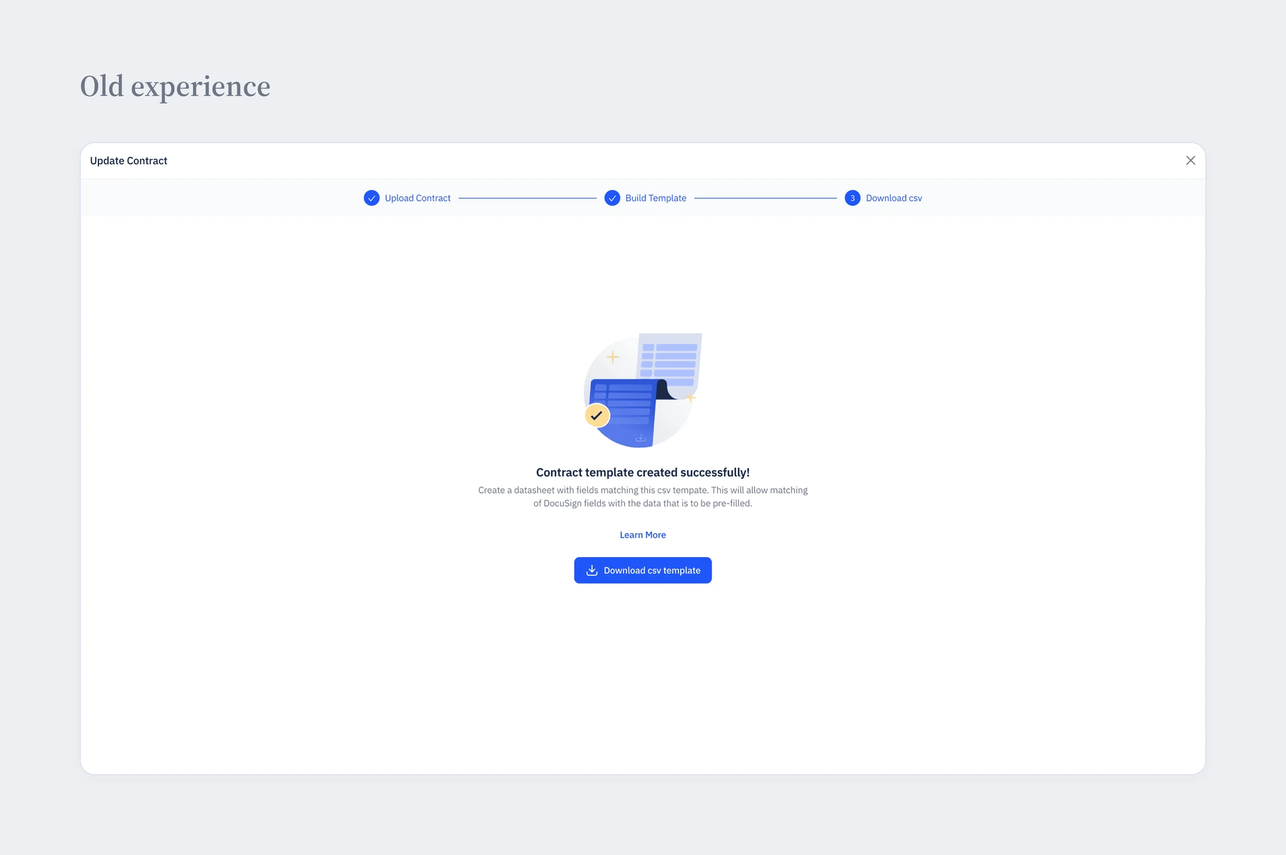
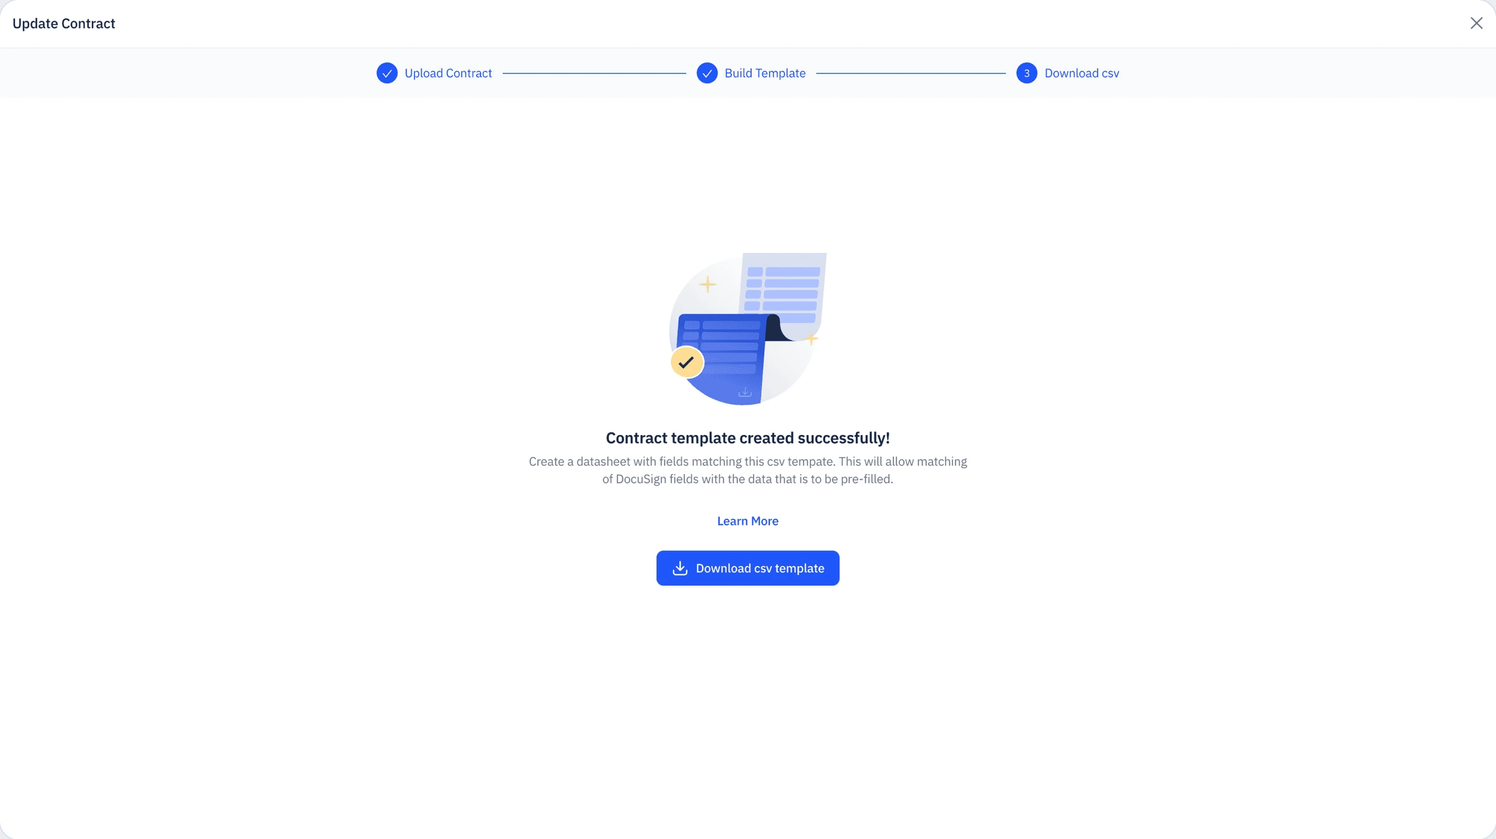
Contracts: frameless wider media, sticky old/new labels, cleaner heading scale
Claude-Session: https://claude.ai/code/session_01T9DhejLkAvT3djWqk8BUXi

diff --git a/v2/contracts/index.html b/v2/contracts/index.html
@@ -90,111 +90,116 @@
 
   <section class="sec" id="experience" aria-labelledby="experience-h">
     <h2 class="cs-h2 reveal" id="experience-h">How the new experience works</h2>
-    <h3 class="cs-h3 reveal">1. Creating a reusable template</h3>
-    <div class="prose reveal">
+  <div class="part reveal">
+    <h3 class="cs-h3 part-h"><span class="pn">01</span>Creating a reusable template</h3>
+    <div class="prose">
       <p>The first step is creating a contract template that can be reused for different salespeople. Admins can upload a document, choose who needs to sign, and set up signing order and reminders.</p>
     </div>
-    <h4 class="cs-h4 reveal">The problem</h4>
-    <div class="prose reveal">
-      <p>Previously, admins could define who needed to sign, but had to manually add the actual recipients when sending contracts.</p>
-      <p>From feedback shared by other teams, we learned that these recipients were often the salesperson's manager or a specific admin.</p>
+    <div class="phase old">
+      <p class="tag"><span aria-hidden="true"></span>Old experience</p>
+      <div class="prose">
+        <p>Previously, admins could define who needed to sign, but had to manually add the actual recipients when sending contracts.</p>
+        <p>From feedback shared by other teams, we learned that these recipients were often the salesperson's manager or a specific admin.</p>
+      </div>
+      <figure class="shot-ui"><img src="../../assets/contracts/old-recipients.webp?v=2" width="2400" height="1346" loading="lazy" alt="The old Create Contract form, with the recipient role rows circled in red."></figure>
     </div>
-    <figure class="panel reveal"><img src="../../assets/contracts/old-recipients.webp" width="2064" height="1372" loading="lazy" alt="Old experience: the Create Contract form, with the recipient role rows circled in red."></figure>
-    <h4 class="cs-h4 reveal">New experience - What we changed</h4>
-    <div class="prose reveal">
-      <p>Since Everstage already knows who each salesperson's manager is, we made this automatic. Admins can simply choose "Salesperson's manager," and Everstage finds the right person for each contract. They can also choose a specific admin who should receive it.</p>
+    <div class="phase new">
+      <p class="tag"><span aria-hidden="true"></span>New experience</p>
+      <div class="prose">
+        <p>Since Everstage already knows who each salesperson's manager is, we made this automatic. Admins can simply choose "Salesperson's manager," and Everstage finds the right person for each contract. They can also choose a specific admin who should receive it.</p>
+      </div>
+      <figure class="shot-ui"><video src="../../assets/contracts/new-recipients.mp4" poster="../../assets/contracts/new-recipients-poster.jpg" width="1600" height="892" autoplay muted loop playsinline preload="metadata" aria-label="Setting up recipient roles, with the salesperson's manager assigned automatically."></video></figure>
     </div>
-    <figure class="panel new reveal">
-      <img src="../../assets/contracts/new-panel.webp" width="2064" height="1372" loading="lazy" alt="">
-      <video src="../../assets/contracts/new-recipients.mp4" poster="../../assets/contracts/new-recipients-poster.jpg" width="1600" height="892" autoplay muted loop playsinline preload="metadata" aria-label="New experience: setting up recipient roles, with the salesperson's manager assigned automatically."></video>
-    </figure>
-    <h3 class="cs-h3 reveal">2. Building the template</h3>
-    <div class="prose reveal">
+  </div>
+  <div class="part reveal">
+    <h3 class="cs-h3 part-h"><span class="pn">02</span>Building the template</h3>
+    <div class="prose">
       <p>Next, admins add placeholders for information that changes for each salesperson, like their name or sales target.</p>
     </div>
-    <h4 class="cs-h4 reveal">The problem</h4>
-    <div class="prose reveal">
-      <p>Previously, admins added placeholders in DocuSign, which was embedded in Everstage. But they still had to manually prepare and upload the values for each salesperson, even when the data was already in Everstage.</p>
+    <div class="phase old">
+      <p class="tag"><span aria-hidden="true"></span>Old experience</p>
+      <div class="prose">
+        <p>Previously, admins added placeholders in DocuSign, which was embedded in Everstage. But they still had to manually prepare and upload the values for each salesperson, even when the data was already in Everstage.</p>
+      </div>
+      <figure class="shot-ui"><img src="../../assets/contracts/old-template-builder.webp?v=2" width="2400" height="1346" loading="lazy" alt="The DocuSign template builder embedded in Everstage."></figure>
     </div>
-    <figure class="panel reveal"><img src="../../assets/contracts/old-template-builder.webp" width="2064" height="1372" loading="lazy" alt="Old experience: the DocuSign template builder embedded in Everstage."></figure>
-    <h4 class="cs-h4 reveal">New experience - What we changed</h4>
-    <div class="prose reveal">
-      <p>We built on an existing template builder developed by another team. I redesigned parts of it to support contract-specific placeholders and AI-powered data fetching.</p>
-      <p>Admins can now describe what each placeholder needs, like "This salesperson's Q2 sales target." Eva turns these instructions into reusable requests to fetch the right values.</p>
+    <div class="phase new">
+      <p class="tag"><span aria-hidden="true"></span>New experience</p>
+      <div class="prose">
+        <p>We built on an existing template builder developed by another team. I redesigned parts of it to support contract-specific placeholders and AI-powered data fetching.</p>
+        <p>Admins can now describe what each placeholder needs, like "This salesperson's Q2 sales target." Eva turns these instructions into reusable requests to fetch the right values.</p>
+      </div>
+      <figure class="shot-ui"><video src="../../assets/contracts/new-placeholders.mp4" poster="../../assets/contracts/new-placeholders-poster.jpg" width="1600" height="892" autoplay muted loop playsinline preload="metadata" aria-label="Adding a placeholder and describing what it needs for Eva."></video></figure>
+      <div class="prose">
+        <p>Users can also choose from commonly used placeholders with pre-filled instructions for Eva, instead of setting them up from scratch.</p>
+      </div>
+      <figure class="shot-ui"><video src="../../assets/contracts/new-prefilled.mp4" poster="../../assets/contracts/new-prefilled-poster.jpg" width="1600" height="892" autoplay muted loop playsinline preload="metadata" aria-label="Choosing a commonly used placeholder with pre-filled instructions."></video></figure>
+      <p class="step-l">More ways to fill placeholders</p>
+      <figure class="shot-ui"><img src="../../assets/contracts/fill-options.webp?v=2" width="2064" height="1372" loading="lazy" alt="Two other ways to fill a placeholder: upload or enter values, or set a default value."></figure>
     </div>
-    <figure class="panel new reveal">
-      <img src="../../assets/contracts/new-panel.webp" width="2064" height="1372" loading="lazy" alt="">
-      <video src="../../assets/contracts/new-placeholders.mp4" poster="../../assets/contracts/new-placeholders-poster.jpg" width="1600" height="892" autoplay muted loop playsinline preload="metadata" aria-label="New experience: adding a placeholder and describing what it needs for Eva."></video>
-    </figure>
-    <div class="prose reveal">
-      <p>Users can also choose from commonly used placeholders with pre-filled instructions for Eva, instead of setting them up from scratch.</p>
+  </div>
+  <div class="part reveal">
+    <h3 class="cs-h3 part-h"><span class="pn">03</span>Previewing values before saving the template</h3>
+    <div class="phase old">
+      <p class="tag"><span aria-hidden="true"></span>Old experience</p>
+      <div class="prose">
+        <p>Previously, admins had to download a blank CSV template containing all the contract placeholders as column headers. They then had to manually fill in the values for each salesperson and bring the data back into Everstage when sending contracts.</p>
+      </div>
+      <figure class="shot-ui"><img src="../../assets/contracts/old-csv.webp?v=2" width="2400" height="1346" loading="lazy" alt="The last step of the old flow: downloading a blank CSV."></figure>
     </div>
-    <figure class="panel new reveal">
-      <img src="../../assets/contracts/new-panel.webp" width="2064" height="1372" loading="lazy" alt="">
-      <video src="../../assets/contracts/new-prefilled.mp4" poster="../../assets/contracts/new-prefilled-poster.jpg" width="1600" height="892" autoplay muted loop playsinline preload="metadata" aria-label="New experience: choosing a commonly used placeholder with pre-filled instructions."></video>
-    </figure>
-    <h4 class="cs-h4 reveal">More ways to fill placeholders</h4>
-    <figure class="panel reveal"><img src="../../assets/contracts/fill-options.webp" width="2064" height="1372" loading="lazy" alt="Two other ways to fill a placeholder: upload or enter values, or set a default value."></figure>
-    <h3 class="cs-h3 reveal">3. Previewing values before saving the template</h3>
-    <h4 class="cs-h4 reveal">The problem</h4>
-    <div class="prose reveal">
-      <p>Previously, admins had to download a blank CSV template containing all the contract placeholders as column headers. They then had to manually fill in the values for each salesperson and bring the data back into Everstage when sending contracts.</p>
+    <div class="phase new">
+      <p class="tag"><span aria-hidden="true"></span>New experience</p>
+      <div class="prose">
+        <p>Instead of manually preparing spreadsheets, admins can let Eva fetch the required information. The queries are saved with the template for future use.</p>
+      </div>
+      <figure class="shot-ui"><video src="../../assets/contracts/new-eva-fetch.mp4" poster="../../assets/contracts/new-eva-fetch-poster.jpg" width="1600" height="892" autoplay muted loop playsinline preload="metadata" aria-label="Eva fetching values for the placeholders."></video></figure>
+      <div class="prose">
+        <p>Admins can preview the values for a few salespeople to check if Eva is fetching the right information and make corrections if needed.</p>
+      </div>
+      <figure class="shot-ui"><video src="../../assets/contracts/new-preview-values.mp4" poster="../../assets/contracts/new-preview-values-poster.jpg" width="1600" height="892" autoplay muted loop playsinline preload="metadata" aria-label="Previewing fetched values for a few salespeople."></video></figure>
+      <div class="prose">
+        <p>Admins can also preview how the actual contract looks with the placeholders filled in, before saving the template.</p>
+      </div>
+      <figure class="shot-ui"><video src="../../assets/contracts/new-preview-doc.mp4" poster="../../assets/contracts/new-preview-doc-poster.jpg" width="1600" height="892" autoplay muted loop playsinline preload="metadata" aria-label="Previewing the contract with placeholders filled in."></video></figure>
     </div>
-    <figure class="panel reveal"><img src="../../assets/contracts/old-csv.webp" width="2064" height="1372" loading="lazy" alt="Old experience: the final step of the old flow, downloading a blank CSV."></figure>
-    <h4 class="cs-h4 reveal">New experience - What we changed</h4>
-    <div class="prose reveal">
-      <p>Instead of manually preparing spreadsheets, admins can let Eva fetch the required information. The queries are saved with the template for future use.</p>
-    </div>
-    <figure class="panel new reveal">
-      <img src="../../assets/contracts/new-panel.webp" width="2064" height="1372" loading="lazy" alt="">
-      <video src="../../assets/contracts/new-eva-fetch.mp4" poster="../../assets/contracts/new-eva-fetch-poster.jpg" width="1600" height="892" autoplay muted loop playsinline preload="metadata" aria-label="New experience: Eva fetching values for the placeholders."></video>
-    </figure>
-    <div class="prose reveal">
-      <p>Admins can preview the values for a few salespeople to check if Eva is fetching the right information and make corrections if needed.</p>
-    </div>
-    <figure class="panel new reveal">
-      <img src="../../assets/contracts/new-panel.webp" width="2064" height="1372" loading="lazy" alt="">
-      <video src="../../assets/contracts/new-preview-values.mp4" poster="../../assets/contracts/new-preview-values-poster.jpg" width="1600" height="892" autoplay muted loop playsinline preload="metadata" aria-label="New experience: previewing fetched values for a few salespeople."></video>
-    </figure>
-    <div class="prose reveal">
-      <p>Admins can also preview how the actual contract looks with the placeholders filled in, before saving the template.</p>
-    </div>
-    <figure class="panel new reveal">
-      <img src="../../assets/contracts/new-panel.webp" width="2064" height="1372" loading="lazy" alt="">
-      <video src="../../assets/contracts/new-preview-doc.mp4" poster="../../assets/contracts/new-preview-doc-poster.jpg" width="1600" height="892" autoplay muted loop playsinline preload="metadata" aria-label="New experience: previewing the contract with placeholders filled in."></video>
-    </figure>
-    <h3 class="cs-h3 reveal">4. Preparing and sending envelopes</h3>
-    <div class="prose reveal">
+  </div>
+  <div class="part reveal">
+    <h3 class="cs-h3 part-h"><span class="pn">04</span>Preparing and sending envelopes</h3>
+    <div class="prose">
       <p>Once the template is ready, admins can use it to send contracts to multiple salespeople.</p>
     </div>
-    <h4 class="cs-h4 reveal">The problem</h4>
-    <div class="prose reveal">
-      <p>Previously, admins had to manually prepare a spreadsheet containing each salesperson's contract details, recipient emails, email subjects, and messages.</p>
-      <p>They then had to upload this data into Everstage as a Datasheet and load it before sending contracts.</p>
+    <div class="phase old">
+      <p class="tag"><span aria-hidden="true"></span>Old experience</p>
+      <div class="prose">
+        <p>Previously, admins had to manually prepare a spreadsheet containing each salesperson's contract details, recipient emails, email subjects, and messages.</p>
+        <p>They then had to upload this data into Everstage as a Datasheet and load it before sending contracts.</p>
+      </div>
+      <figure class="shot-ui"><img src="../../assets/contracts/old-envelopes.webp?v=2" width="2400" height="1260" loading="lazy" alt="Sending envelopes in the old flow by loading a prepared Datasheet."></figure>
     </div>
-    <figure class="panel reveal"><img src="../../assets/contracts/old-envelopes.webp" width="2064" height="1372" loading="lazy" alt="Old experience: sending envelopes by loading a prepared Datasheet."></figure>
-    <h4 class="cs-h4 reveal">New experience - What we changed</h4>
-    <div class="prose reveal">
-      <p class="step-l"><strong>1. Select recipients</strong></p>
-      <p>Admins can directly select salespeople from Everstage, without preparing a spreadsheet.</p>
-      <p class="step-l"><strong>2. Review the values</strong></p>
-      <p>Contract details are automatically fetched using the setup saved in the template. Admins can review, edit, or manually enter missing values before sending.</p>
-      <p class="step-l"><strong>3. Customize emails</strong></p>
-      <p>Instead of preparing email content in a spreadsheet, admins can write one message for everyone, customize it by recipient role, or personalize it for individuals.</p>
-      <p class="step-l"><strong>4. Review and send</strong></p>
-      <p>Admins can review everything in one place before sending the contracts.</p>
+    <div class="phase new">
+      <p class="tag"><span aria-hidden="true"></span>New experience</p>
+      <div class="prose steps-l">
+        <p class="step-l">1. Select recipients</p>
+        <p>Admins can directly select salespeople from Everstage, without preparing a spreadsheet.</p>
+        <p class="step-l">2. Review the values</p>
+        <p>Contract details are automatically fetched using the setup saved in the template. Admins can review, edit, or manually enter missing values before sending.</p>
+        <p class="step-l">3. Customize emails</p>
+        <p>Instead of preparing email content in a spreadsheet, admins can write one message for everyone, customize it by recipient role, or personalize it for individuals.</p>
+        <p class="step-l">4. Review and send</p>
+        <p>Admins can review everything in one place before sending the contracts.</p>
+      </div>
+      <figure class="shot-ui"><video src="../../assets/contracts/new-envelopes.mp4" poster="../../assets/contracts/new-envelopes-poster.jpg" width="1600" height="892" autoplay muted loop playsinline preload="metadata" aria-label="Selecting recipients, reviewing values, customizing emails and sending."></video></figure>
     </div>
-    <figure class="panel new reveal">
-      <img src="../../assets/contracts/new-panel.webp" width="2064" height="1372" loading="lazy" alt="">
-      <video src="../../assets/contracts/new-envelopes.mp4" poster="../../assets/contracts/new-envelopes-poster.jpg" width="1600" height="892" autoplay muted loop playsinline preload="metadata" aria-label="New experience: selecting recipients, reviewing values, customizing emails and sending."></video>
-    </figure>
-    <h3 class="cs-h3 reveal">5. Managing and tracking contracts</h3>
-    <div class="prose reveal">
-      <p class="step-l"><strong>Contracts page</strong></p>
+  </div>
+  <div class="part reveal">
+    <h3 class="cs-h3 part-h"><span class="pn">05</span>Managing and tracking contracts</h3>
+    <div class="prose steps-l">
+      <p class="step-l">Contracts page</p>
       <p>Admins can view, reuse, or clone existing templates without having to create them from scratch.</p>
-      <p class="step-l"><strong>Track sent contracts</strong></p>
+      <p class="step-l">Track sent contracts</p>
       <p>A separate Envelopes page lets admins track the status of each contract, including those awaiting signatures, completed, declined, or expired.</p>
     </div>
+  </div>
   </section>
 
   <section class="sec" id="ai-wrong" aria-labelledby="ai-wrong-h">
@@ -216,14 +221,14 @@
       <p>For bulk updates, we let them match records using recipient email addresses and validate the results before applying them.</p>
       <p>We also accounted for cases like multiple matching records, rather than silently choosing a value.</p>
     </div>
-    <figure class="panel reveal"><img src="../../assets/contracts/copy-paste-values.webp" width="2064" height="1372" loading="lazy" alt="Copy and paste values from a spreadsheet."></figure>
-    <figure class="panel reveal"><img src="../../assets/contracts/lookup-datasheet.webp" width="2064" height="1372" loading="lazy" alt="Fill missing values by looking them up from a Datasheet."></figure>
+    <figure class="shot-ui reveal"><img src="../../assets/contracts/copy-paste-values.webp?v=2" width="2400" height="1266" loading="lazy" alt="Copy and paste values from a spreadsheet."></figure>
+    <figure class="shot-ui reveal"><img src="../../assets/contracts/lookup-datasheet.webp?v=2" width="2400" height="1266" loading="lazy" alt="Fill missing values by looking them up from a Datasheet."></figure>
     <h3 class="cs-h3 reveal">When values become outdated</h3>
     <div class="prose reveal">
       <p>What if an admin prepares contracts but returns to send them a few days later? The source data might have changed.</p>
       <p>We introduced indicators for missing and outdated values, filters to find affected records, and options to refresh the data.</p>
     </div>
-    <figure class="panel reveal"><img src="../../assets/contracts/outdated-values.webp" width="2064" height="1372" loading="lazy" alt="Identify and refresh outdated values before sending."></figure>
+    <figure class="shot-ui reveal"><img src="../../assets/contracts/outdated-values.webp?v=2" width="2400" height="1347" loading="lazy" alt="Identify and refresh outdated values before sending."></figure>
   </section>
 
   <section class="sec" id="approaches" aria-labelledby="approaches-h">
@@ -237,16 +242,14 @@
       <p>But if a new salesperson joined midway through the year, admins would have to recreate the contract just to send it to one more person.</p>
       <p>So we kept templates separate, allowing admins to reuse them and track the contracts sent from each template.</p>
     </div>
-    <figure class="ss-frame wide reveal">
-      <div class="ss-screen"><img src="../../assets/contracts/template-steps.webp" width="1200" height="760" loading="lazy" alt="The template setup screen: a draft contract with steps down the left for Basic details, Recipients, Document and placeholders, Data mapping, Email content, and Preview and send."></div>
-    </figure>
+    <figure class="shot-ui reveal"><img src="../../assets/contracts/template-steps.webp" width="1200" height="760" loading="lazy" alt="The template setup screen: a draft contract with steps down the left for Basic details, Recipients, Document and placeholders, Data mapping, Email content, and Preview and send."></figure>
     <h3 class="cs-h3 reveal">Figuring out how to fill contract details</h3>
     <div class="prose reveal">
       <p>This was one of the biggest challenges, and we didn't have a clear solution initially.</p>
       <p>We first explored letting admins manually choose where each value should come from. But fetching something like a salesperson's sales target for a specific quarter could require several filters and calculations.</p>
       <p>This made the setup complicated. We needed a simpler approach, and the AI capabilities being developed alongside the redesign opened up another possibility.</p>
     </div>
-    <figure class="dm-frame reveal"><img src="../../assets/contracts/data-mapping-frame.webp" width="2000" height="1000" loading="lazy" alt="The manual data mapping panel for a Variable pay placeholder: map it from a datasheet field or describe how to calculate it, then pick a source object and a datasheet."></figure>
+    <figure class="shot-ui reveal"><img src="../../assets/contracts/data-mapping-frame.webp" width="2000" height="1000" loading="lazy" alt="The manual data mapping panel for a Variable pay placeholder: map it from a datasheet field or describe how to calculate it, then pick a source object and a datasheet."></figure>
   </section>
 
   <section class="sec" id="changed" aria-labelledby="changed-h">

diff --git a/v2/case.css b/v2/case.css
@@ -666,3 +666,49 @@
 .blog .dm-frame { margin: 28px 0 0; padding: 16px 16px 0; border: 1px solid var(--line); border-radius: 4px; background: #eef1f0; }
 .blog .dm-frame img { display: block; width: 100%; height: auto; border-radius: 10px 10px 0 0; }
 .blog .cs-h2 .n { display: none; }
+
+/* ---------- Contracts: clean type scale, larger media, clear old vs new ---------- */
+/* Type scale: section 32 serif · sub-heading 22 serif · label 15 sans · body 16 sans */
+.blog .sec { margin-top: 112px; }
+.blog .cs-h2 { font: 500 32px/1.2 "Source Serif 4", Georgia, serif; letter-spacing: -0.015em; color: #24302f; }
+.blog .cs-h2 + .prose { margin-top: 20px; }
+.blog .cs-h3 { margin: 56px 0 0; font: 500 22px/1.3 "Source Serif 4", Georgia, serif; letter-spacing: -0.01em; color: #24302f; }
+.blog .cs-h2 + .cs-h3 { margin-top: 32px; }
+.blog .cs-h3 + .prose, .blog .part > .prose { margin-top: 12px; }
+.blog .part { margin-top: 72px; }
+.blog .cs-h2 + .part { margin-top: 36px; }
+.blog .part-h { margin: 0; display: flex; align-items: baseline; gap: 14px; font-size: 24px; }
+.blog .pn { font: 500 13px/1 "Inter", system-ui, sans-serif; letter-spacing: 0.02em; color: var(--muted); font-variant-numeric: tabular-nums; }
+.blog .prose p.step-l { margin: 24px 0 4px; font: 600 15px/1.4 "Inter", system-ui, sans-serif; color: var(--ink); }
+.blog .prose.steps-l p.step-l:first-child, .blog .prose p.step-l:first-child { margin-top: 0; }
+.blog .phase > p.step-l { margin: 32px 0 0; font: 600 15px/1.4 "Inter", system-ui, sans-serif; color: var(--ink); }
+.blog .prose + .prose { margin-top: 24px; }
+
+/* Old / new: each block carries a label that sticks under the top bar while you scroll through it */
+.blog .phase { position: relative; margin-top: 40px; }
+.blog .phase.new { margin-top: 64px; }
+.blog .tag { position: sticky; top: 76px; z-index: 6; display: inline-flex; align-items: center; gap: 8px; margin: 0 0 16px; padding: 6px 12px 6px 10px; border-radius: 999px; border: 1px solid var(--line); background: rgba(248, 250, 249, 0.94); -webkit-backdrop-filter: blur(12px); backdrop-filter: blur(12px); box-shadow: 0 4px 14px rgba(31, 43, 45, 0.06); font: 500 13px/1 "Inter", system-ui, sans-serif; letter-spacing: 0.01em; }
+.blog .tag span { width: 7px; height: 7px; border-radius: 50%; }
+.blog .phase.old .tag { color: var(--muted); }
+.blog .phase.old .tag span { background: #b4bcbd; }
+.blog .phase.new .tag { color: #24302f; border-color: rgba(165, 42, 98, 0.22); }
+.blog .phase.new .tag span { background: var(--accent); box-shadow: 0 0 0 3px rgba(165, 42, 98, 0.14); }
+.blog .phase > .prose:first-of-type { margin-top: 0; }
+
+/* Media: no backgrounds, just the screen, wider than the text so the UI is legible */
+.blog .shot-ui { position: relative; left: 50%; transform: translateX(-50%); width: max(100%, min(1040px, calc(100vw - 440px))); margin: 28px 0 0; border-radius: 12px; overflow: hidden; background: #fff; border: 1px solid rgba(31, 43, 45, 0.1); box-shadow: 0 1px 2px rgba(31, 43, 45, 0.04), 0 12px 32px -8px rgba(31, 43, 45, 0.1); }
+.blog .shot-ui img, .blog .shot-ui video { display: block; width: 100%; height: auto; }
+.blog .phase.old .shot-ui { box-shadow: none; background: #f3f5f4; }
+.blog .phase.old .shot-ui img { filter: saturate(0.8); }
+.blog .shot-ui + .prose { margin-top: 28px; }
+.blog .shot-ui + .shot-ui { margin-top: 16px; }
+.blog .shot-ui + .cs-h3 { margin-top: 64px; }
+/* The old-workflow video in the problem section gets the same treatment */
+.blog .old-flow { position: relative; left: 50%; transform: translateX(-50%); width: max(100%, min(1040px, calc(100vw - 440px))); }
+.blog .old-flow video { border-radius: 12px; border: 1px solid rgba(31, 43, 45, 0.1); box-shadow: none; }
+@media (max-width: 1180px) { .blog .shot-ui, .blog .old-flow { left: 0; transform: none; width: 100%; } }
+@media (max-width: 760px) {
+  .blog .cs-h2 { font-size: 26px; } .blog .cs-h3 { font-size: 20px; } .blog .part-h { font-size: 21px; }
+  .blog .sec { margin-top: 80px; } .blog .part { margin-top: 56px; }
+  .blog .tag { top: 108px; } .blog .shot-ui { border-radius: 8px; }
+}
